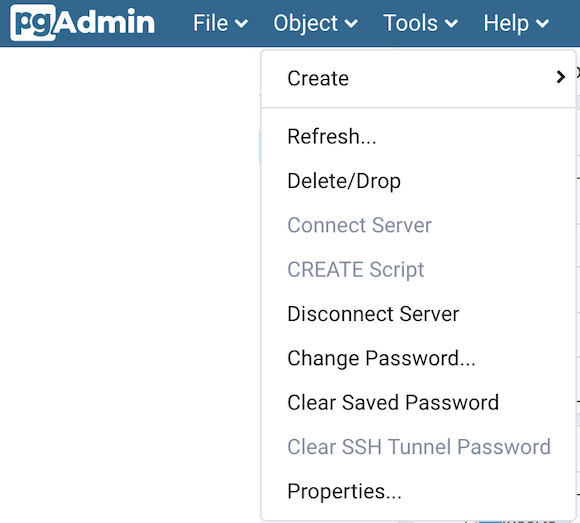
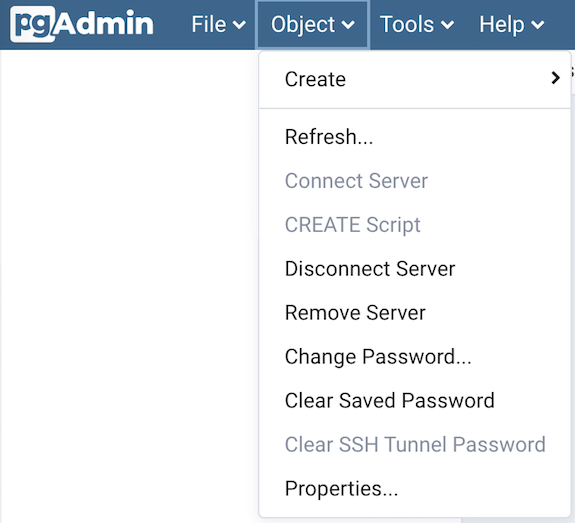
1) Fixed issue where Drop and Disconnect connection menu points are too close to each other. Fixes #3279 2) Rename the context menu from 'Drop Server' to 'Remove Server'. Fixes #3859

diff --git a/web/pgadmin/browser/static/js/node.js b/web/pgadmin/browser/static/js/node.js
@@ -28,6 +28,10 @@ define('pgadmin.browser.node', [
       F1: 112,
     };
 
+  const REMOVE_SERVER_PRIORITY = 5;
+  const REMOVE_SERVER_LABEL = 'Remove Server';
+  const SERVER = 'server';
+
   // It has already been defined.
   // Avoid running this script again.
   if (pgBrowser.Node)
@@ -142,8 +146,8 @@ define('pgadmin.browser.node', [
           module: self,
           applies: ['object', 'context'],
           callback: 'delete_obj',
-          priority: 2,
-          label: gettext('Delete/Drop'),
+          priority: self.get_menu_item_priority(self.type, 2),
+          label: self.change_menu_label(self.type, gettext('Delete/Drop')),
           data: {
             'url': 'drop',
           },
@@ -755,15 +759,31 @@ define('pgadmin.browser.node', [
             return;
           }
         } else {
-          msg = gettext('Are you sure you want to drop %s "%s"?', obj.label.toLowerCase(), d.label);
-          title = gettext('DROP %s?', obj.label);
+          var remove_drop_text;
+          if(obj.type === SERVER) {
+            remove_drop_text = 'Remove';
+          }
+          else {
+            remove_drop_text = 'DROP';
+          }
+
+          msg = gettext('Are you sure you want to %s %s "%s"?', remove_drop_text.toLowerCase(), obj.label.toLowerCase(), d.label);
+          title = gettext('%s %s?', remove_drop_text, obj.label);
 
           if (!(_.isFunction(obj.canDrop) ?
             obj.canDrop.apply(obj, [d, i]) : obj.canDrop)) {
-            Alertify.error(
-              gettext('The %s "%s" cannot be dropped.', obj.label, d.label),
-              10
-            );
+            if(obj.type === SERVER) {
+              Alertify.error(
+                gettext('The %s "%s" cannot be removed.', obj.label, d.label),
+                10
+              );
+            }
+            else {
+              Alertify.error(
+                gettext('The %s "%s" cannot be dropped.', obj.label, d.label),
+                10
+              );
+            }
             return;
           }
         }
@@ -792,8 +812,14 @@ define('pgadmin.browser.node', [
                     console.warn(e.stack || e);
                   }
                 }
-                pgBrowser.report_error(
-                  gettext('Error dropping %s: "%s"', obj.label, objName), msg);
+                if(obj.type === SERVER) {
+                  pgBrowser.report_error(
+                    gettext('Error removing %s: "%s"', obj.label, objName), msg);
+                }
+                else {
+                  pgBrowser.report_error(
+                    gettext('Error dropping %s: "%s"', obj.label, objName), msg);
+                }
               });
           },
           null).show();
@@ -1756,6 +1782,18 @@ define('pgadmin.browser.node', [
         }
         return this.parent_type;
       }
+    },
+    get_menu_item_priority: function(type, default_priority) { //downgrade Remove Server priority in menus only for Servers
+      if(type && type === SERVER) {
+        return REMOVE_SERVER_PRIORITY;
+      }
+      return default_priority;
+    },
+    change_menu_label: function(type, default_label) { //change Delete/Drop menu option to Remove Server
+      if(type && type === SERVER) {
+        return gettext(REMOVE_SERVER_LABEL);
+      }
+      return default_label;
     },
   });
 

diff --git a/docs/en_US/menu_bar.rst b/docs/en_US/menu_bar.rst
@@ -57,13 +57,15 @@ following options (in alphabetical order):
 +-----------------------------+--------------------------------------------------------------------------------------------------------------------------+
 | *Delete/Drop*               | Click to delete the currently selected object from the server.                                                           |
 +-----------------------------+--------------------------------------------------------------------------------------------------------------------------+
-| *Disconnect Server...*      | Click to refresh the currently selected object.                                                                          |
+| *Disconnect Server...*      | Click to disconnect the currently selected server.                                                                       |
 +-----------------------------+--------------------------------------------------------------------------------------------------------------------------+
 | *Drop Cascade*              | Click to delete the currently selected object and all dependent objects from the server.                                 |
 +-----------------------------+--------------------------------------------------------------------------------------------------------------------------+
 | *Properties...*             | Click to review or modify the currently selected object's properties.                                                    |
 +-----------------------------+--------------------------------------------------------------------------------------------------------------------------+
 | *Refresh...*                | Click to refresh the currently selected object.                                                                          |
++-----------------------------+--------------------------------------------------------------------------------------------------------------------------+
+| *Remove Server*             | Click to remove the currently selected server.                                                                           |
 +-----------------------------+--------------------------------------------------------------------------------------------------------------------------+
 | *Scripts*                   | Click to open the :ref:`Query tool <query_tool>` to edit or view the selected script from the flyout menu.               |
 +-----------------------------+--------------------------------------------------------------------------------------------------------------------------+

diff --git a/docs/en_US/release_notes_4_15.rst b/docs/en_US/release_notes_4_15.rst
@@ -21,7 +21,9 @@ Bug fixes
 *********
 
 | `Issue #3130 <https://redmine.postgresql.org/issues/3130>`_ -  Ensure create new object dialog should be opened when alt+shift+n key is pressed on the collection node.
+| `Issue #3279 <https://redmine.postgresql.org/issues/3279>`_ -  Fixed issue where Drop and Disconnect connection menu points are too close to each other.
 | `Issue #3789 <https://redmine.postgresql.org/issues/3789>`_ -  Ensure context menus never get hidden below the menu bar.
+| `Issue #3859 <https://redmine.postgresql.org/issues/3859>`_ -  Rename the context menu from 'Drop Server' to 'Remove Server'.
 | `Issue #3913 <https://redmine.postgresql.org/issues/3913>`_ -  Ensure the correct "running at" agent is shown when a pgAgent job is executing.
 | `Issue #3915 <https://redmine.postgresql.org/issues/3915>`_ -  Fix an issue in the Query Tool where shortcut keys could be ignored following a query error.
 | `Issue #3999 <https://redmine.postgresql.org/issues/3999>`_ -  Fix the toggle case shortcut key combination.
